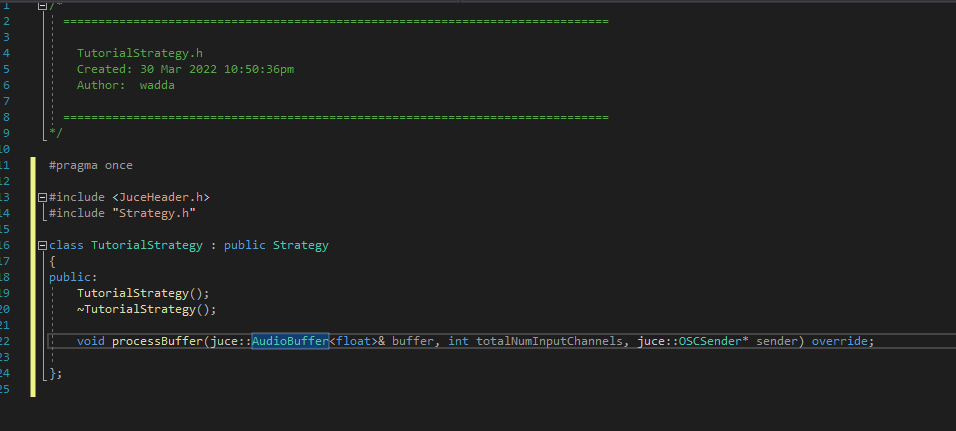
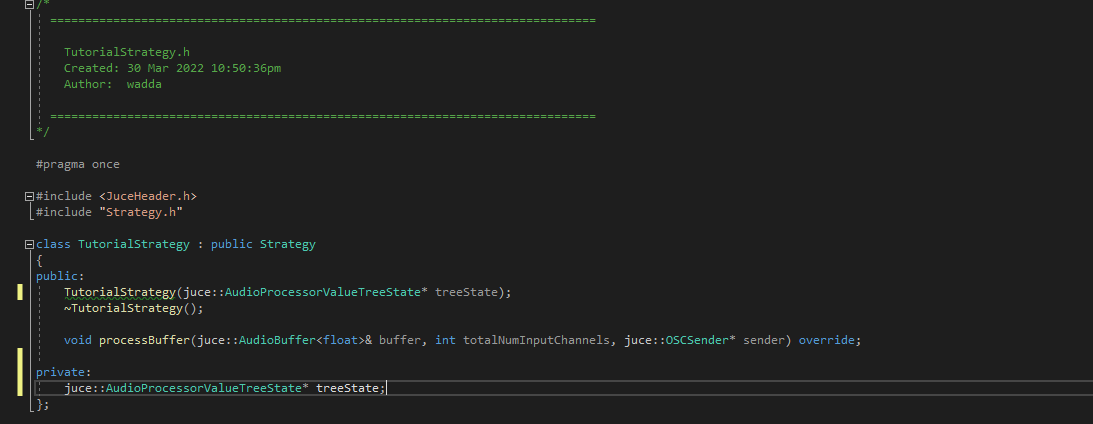
tut5

diff --git a/JUCE_plugin/Source/TutorialStrategy.cpp b/JUCE_plugin/Source/TutorialStrategy.cpp
@@ -10,8 +10,11 @@
 
 #include "TutorialStrategy.h"
 
-TutorialStrategy::TutorialStrategy()
+TutorialStrategy::TutorialStrategy(juce::AudioProcessorValueTreeState* treeState)
 {
+    this->treeState = treeState;
+    this->addresses.push_back("/juce/Tutorial");
+    this->data.push_back(.0f);
 }
 
 TutorialStrategy::~TutorialStrategy()
@@ -20,4 +23,8 @@ TutorialStrategy::~TutorialStrategy()
 
 void TutorialStrategy::processBuffer(juce::AudioBuffer<float>& buffer, int totalNumInputChannels, juce::OSCSender* sender)
 {
+    if (*treeState->getRawParameterValue("enableSend") == 1.0f) {
+        auto max = buffer.getMagnitude(0, buffer.getNumSamples());
+        sender->send(this->addresses[0], juce::OSCArgument(max));
+    }
 }

diff --git a/JUCE_plugin/Source/TutorialStrategy.h b/JUCE_plugin/Source/TutorialStrategy.h
@@ -16,9 +16,11 @@
 class TutorialStrategy : public Strategy
 {
 public:
-    TutorialStrategy();
+    TutorialStrategy(juce::AudioProcessorValueTreeState* treeState);
     ~TutorialStrategy();
 
     void processBuffer(juce::AudioBuffer<float>& buffer, int totalNumInputChannels, juce::OSCSender* sender) override;
 
+private:
+    juce::AudioProcessorValueTreeState* treeState;
 };
